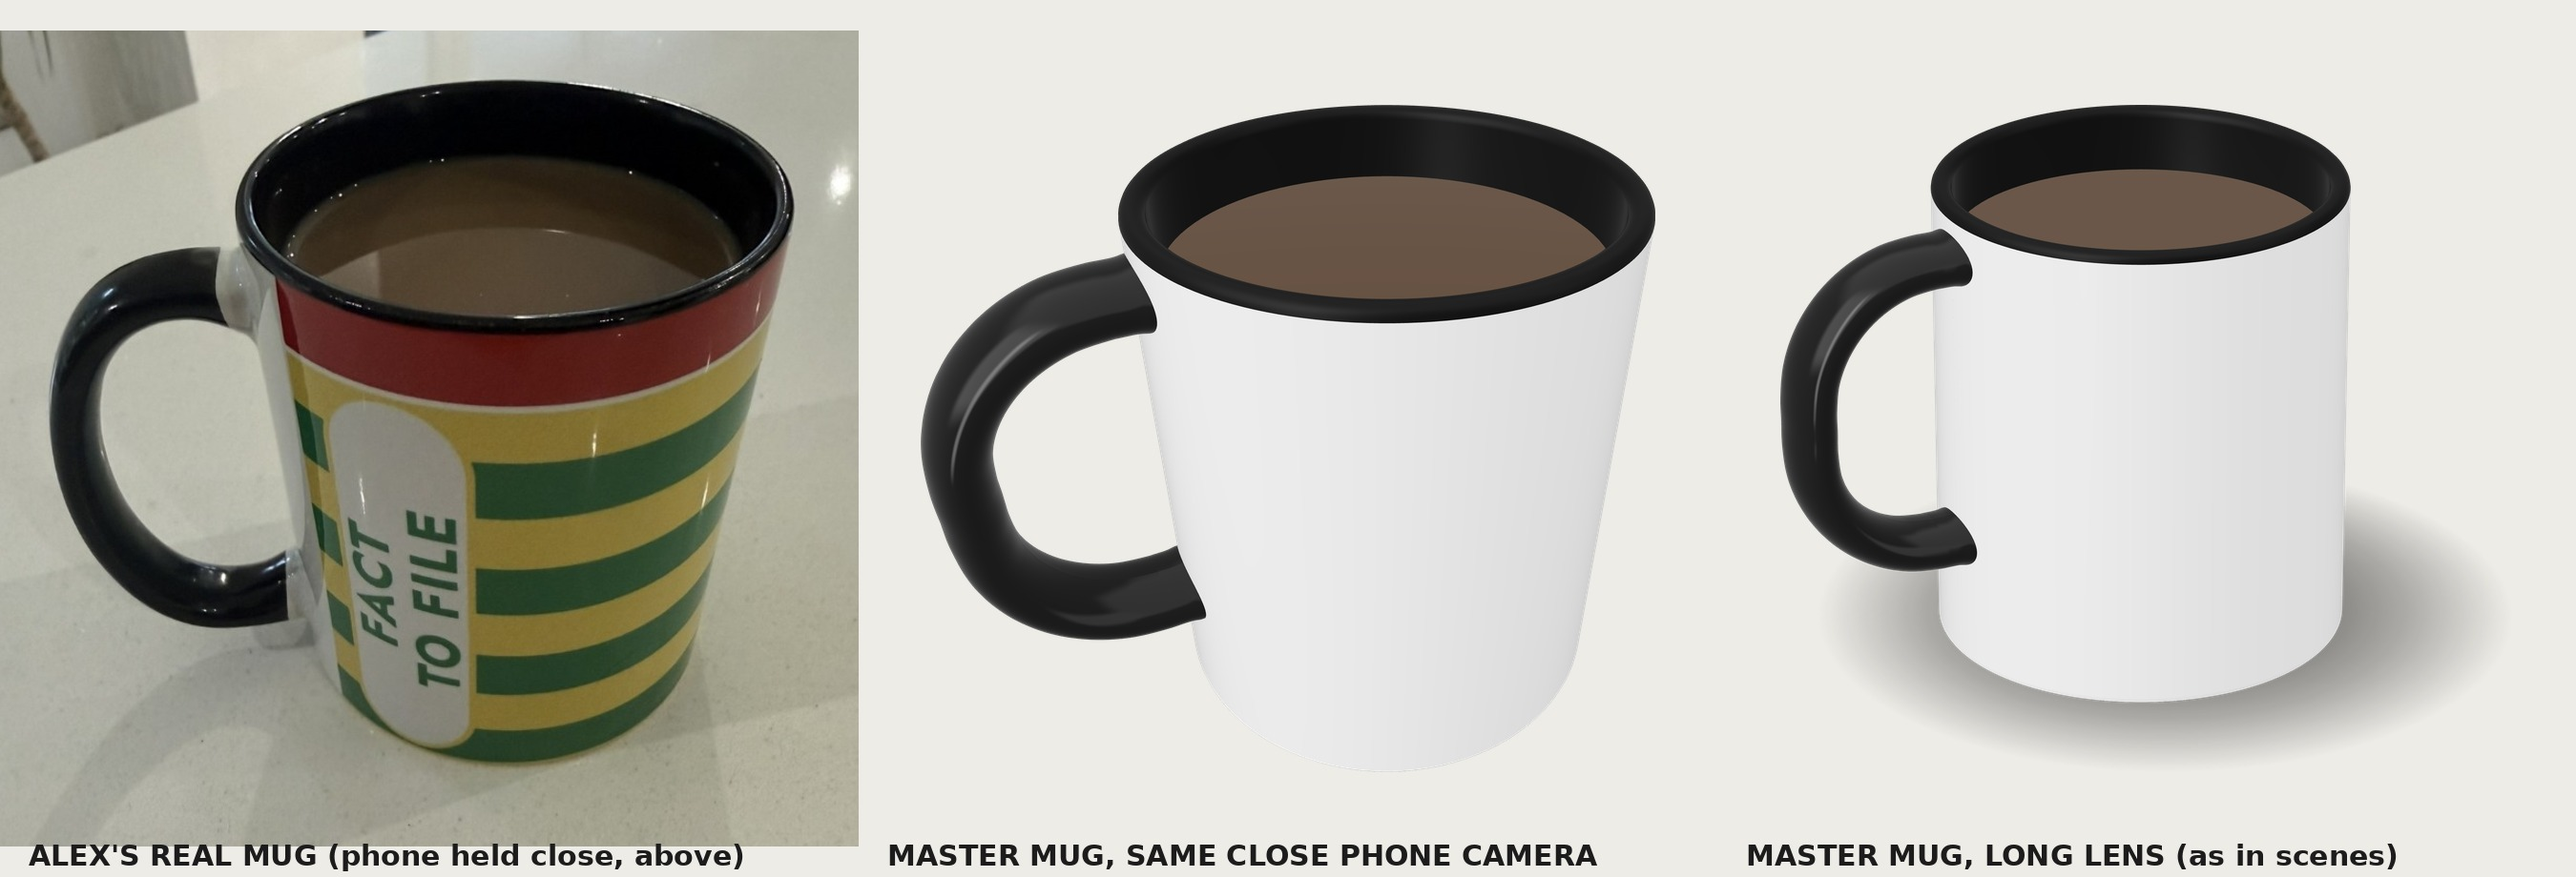
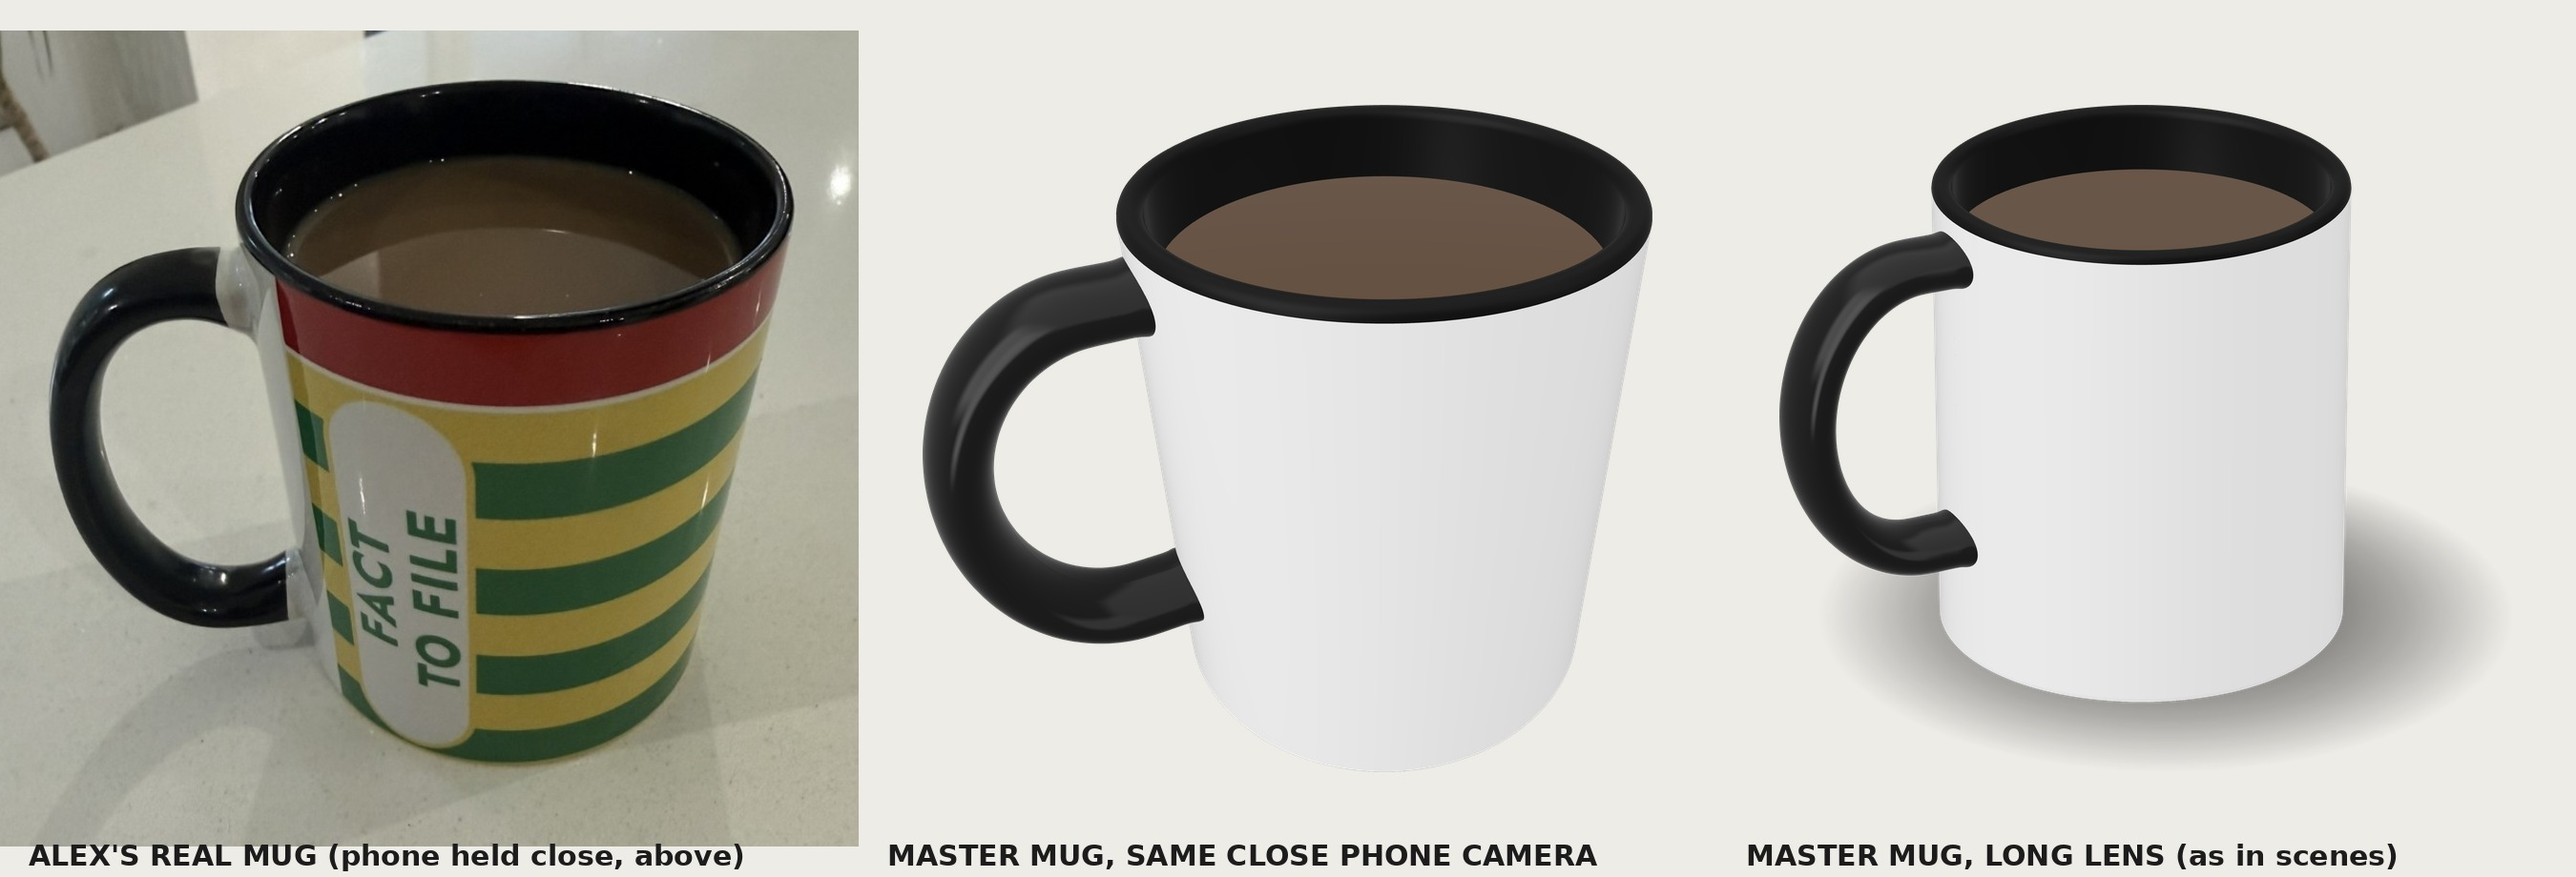
Master mug: one continuous oval D handle, softer body shading
Claude-Session: https://claude.ai/code/session_012o9aG5DgvmXWZHsMc4KE4d

diff --git a/templates/master-mug/render.js b/templates/master-mug/render.js
@@ -19,8 +19,8 @@ const out = process.argv[2]; const o = JSON.parse(process.argv[3] || '{}'); cons
     const env = new T.Scene(); env.background = new T.Color(o.light === 'fire' ? 0x1a120c : 0x9a9a9a);   // studio: a bright, even room, so the white glaze is white and shades smoothly
     const panel = (x, y, z, w, h, col, k) => { const m = new T.Mesh(new T.PlaneGeometry(w, h), new T.MeshBasicMaterial({ color: new T.Color(col).multiplyScalar(k), side: T.DoubleSide })); m.position.set(x, y, z); m.lookAt(0, 0, 0); env.add(m); };
     if (o.light === 'fire') { panel(-30, 25, 30, 30, 40, 0xfff1dc, 5); panel(40, 8, 10, 18, 22, 0xff9a45, 6); panel(0, 50, 0, 60, 60, 0xffe6c8, 1.6); panel(-20, 5, -40, 50, 30, 0xffc890, 1.2); }
-    else { panel(-34, 34, 34, 60, 60, 0xffffff, 2.6); panel(44, 22, 18, 30, 50, 0xffffff, 1.6); panel(0, 60, 0, 120, 120, 0xffffff, 1.4); panel(-22, 14, 40, 5, 70, 0xffffff, 9); }   // the last one is a tall strip light: the glaze's highlight line
-    const pm = new T.PMREMGenerator(r); sc.environment = pm.fromScene(env, o.light === 'fire' ? 0.03 : 0.09).texture;
+    else { panel(-34, 34, 34, 60, 60, 0xffffff, 2.6); panel(44, 22, 18, 30, 50, 0xffffff, 1.6); panel(0, 60, 0, 120, 120, 0xffffff, 1.4); panel(-26, 16, 40, 18, 70, 0xffffff, 3.2); }   // the last one is a tall strip light: the glaze's highlight line
+    const pm = new T.PMREMGenerator(r); sc.environment = pm.fromScene(env, o.light === 'fire' ? 0.03 : 0.16).texture;
     const glaze = (col, extra = {}) => new T.MeshPhysicalMaterial(Object.assign({ color: col, roughness: 0.16, metalness: 0, clearcoat: 1, clearcoatRoughness: 0.06, envMapIntensity: 1 }, extra));
     const mug = new T.Group(); sc.add(mug);
     // print texture: the flat artwork is the whole way round, starting and ending at the handle

diff --git a/templates/master-mug/handle_path.py b/templates/master-mug/handle_path.py
@@ -1,7 +1,8 @@
-"""Writes the master mug's handle path into mug.json: a D made of two arms and two quarter-circles. python3 templates/master-mug/handle_path.py <top cm> <bottom cm> <reach cm> <corner radius cm>"""
-import json, math, sys, os
-p = os.path.dirname(os.path.abspath(__file__)) + '/mug.json'; m = json.load(open(p)); top, bot, reach, r = map(float, sys.argv[1:5]); out = -reach
-q = [i*math.pi/2/6 for i in range(7)]
-pts = [[0.3, top], [-0.4, top]] + [[out + r - r*math.sin(a), top - r + r*math.cos(a)] for a in q] + ([[out, (top + bot)/2]] if top - bot - 2*r > 0.3 else []) + [[out + r - r*math.cos(a), bot + r - r*math.sin(a)] for a in q] + [[-0.4, bot], [0.3, bot]]
+"""Writes the master mug's handle path into mug.json: one continuous oval D. Two short straight arms leave the wall square-on, joined by half an ellipse.
+python3 templates/master-mug/handle_path.py <top cm> <bottom cm> <reach cm> <arm cm>"""
+import json, math, sys, os, re
+p = os.path.dirname(os.path.abspath(__file__)) + '/mug.json'; m = json.load(open(p)); top, bot, reach, arm = map(float, sys.argv[1:5])
+cy, ry, rx = (top + bot)/2, (top - bot)/2, reach - arm; n = 28
+pts = [[0.35, top], [0.0, top], [-arm*0.5, top]] + [[-arm - rx*math.sin(math.pi*i/n), cy + ry*math.cos(math.pi*i/n)] for i in range(n + 1)] + [[-arm*0.5, bot], [0.0, bot], [0.35, bot]]
 m['handle']['path'] = [[round(x, 3), round(y, 3)] for x, y in pts]; m['handle']['reach'] = reach + m['handle']['thick']/2
-s = json.dumps(m, indent=1); import re; s = re.sub(r'\[\s+(-?[\d.]+),\s+(-?[\d.]+)\s+\]', r'[\1, \2]', s); open(p, 'w').write(s + '\n')
+s = json.dumps(m, indent=1); s = re.sub(r'\[\s+(-?[\d.]+),\s+(-?[\d.]+)\s+\]', r'[\1, \2]', s); open(p, 'w').write(s + '\n')
